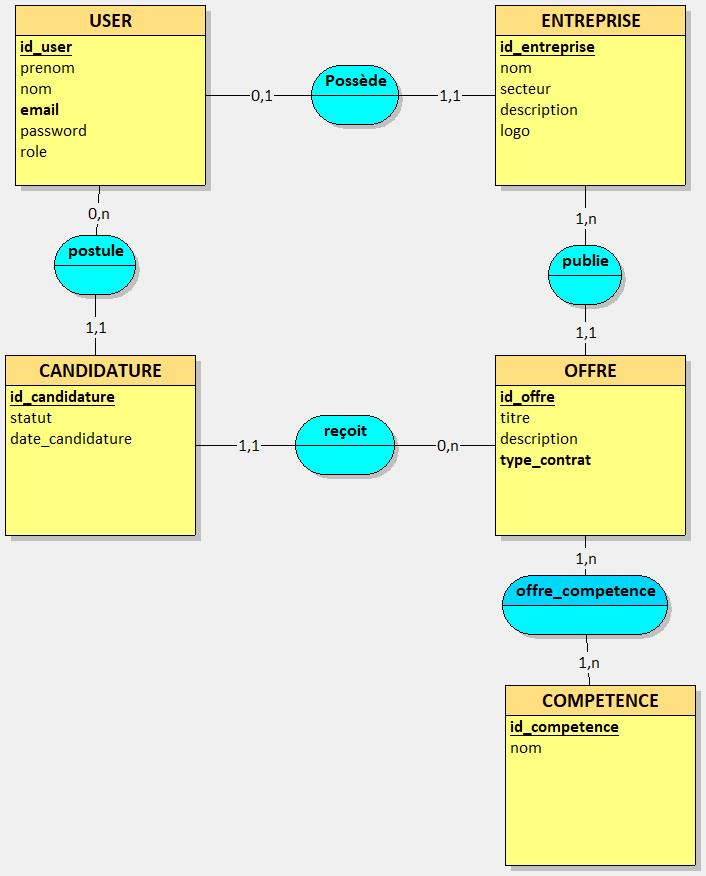
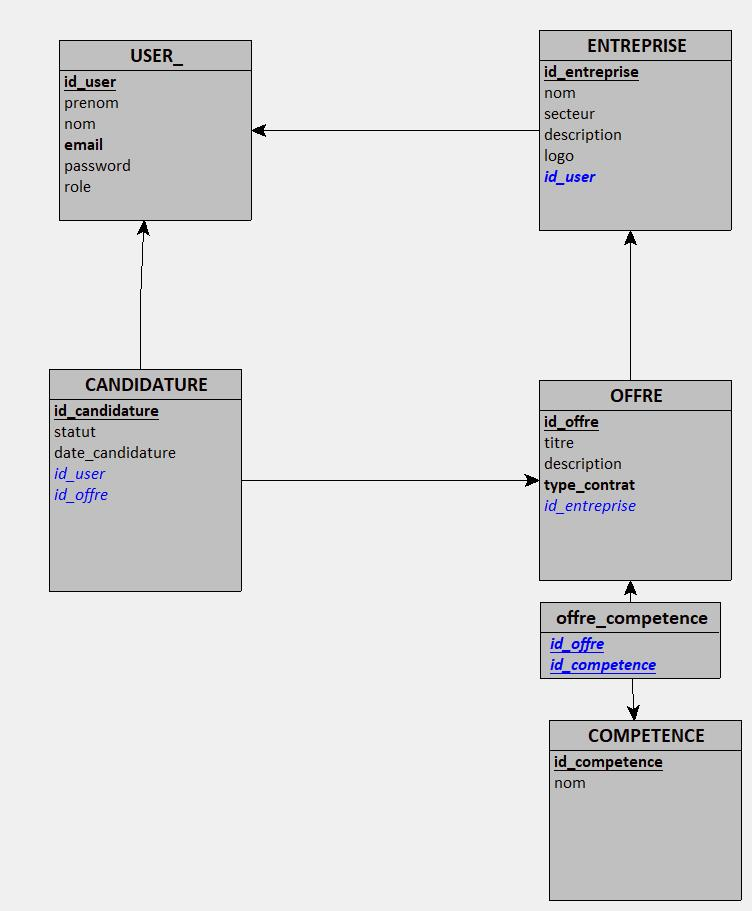
add factories candidaturefactory

diff --git a/database/factories/CandidatureFactory.php b/database/factories/CandidatureFactory.php
@@ -1,0 +1,24 @@
+<?php
+
+namespace Database\Factories;
+
+use App\Models\Offre;
+use App\Models\User;
+use Illuminate\Database\Eloquent\Factories\Factory;
+
+class CandidatureFactory extends Factory
+{
+    public function definition(): array
+    {
+        return [
+            'statut' => fake()->randomElement([
+                'En attente',
+                'Acceptee',
+                'Refusee',
+            ]),
+            'date_candidature' => fake()->date(),
+            'user_id' => User::factory(),
+            'offre_id' => Offre::factory(),
+        ];
+    }
+}

diff --git a/database/factories/OffreFactory.php b/database/factories/OffreFactory.php
@@ -2,23 +2,23 @@
 
 namespace Database\Factories;
 
-use App\Models\Offre;
+use App\Models\Entreprise;
 use Illuminate\Database\Eloquent\Factories\Factory;
 
-/**
- * @extends Factory<Offre>
- */
 class OffreFactory extends Factory
 {
-    /**
-     * Define the model's default state.
-     *
-     * @return array<string, mixed>
-     */
     public function definition(): array
     {
         return [
-            //
+            'titre' => fake()->jobTitle(),
+            'description' => fake()->paragraph(3),
+            'type_contrat' => fake()->randomElement([
+                'CDI',
+                'CDD',
+                'Stage',
+                'Freelance'
+            ]),
+            'entreprise_id' => Entreprise::factory(),
         ];
     }
 }